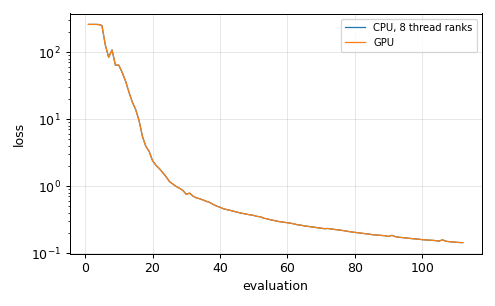
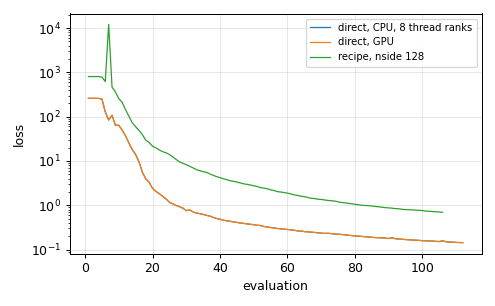
examples/01: the recipe for skewed fields on the Takahashi target
The direct synthesis of the Takahashi kappa (skewness 8.4) matches its
statistics but keeps pixel-scale noise and half the skewness. run.sh now
also runs the recipe of USAGE section 4: Gaussian anamorphosis, bilinear
interpolation to nside 128 with --keep-mean, synthesis at 128 on the GPU
(CPU thread ranks with GPU=0), back to nside 64, histogram matching. The
result is clean, with the target's histogram, and its spectrum is within
0.89-1.31 of the target's per band (plain interpolation: 0.61-1.70).
README, figures (target, direct CPU/GPU, recipe) and timings from garoupe.

diff --git a/examples/01_healpix_synthesis/README.md b/examples/01_healpix_synthesis/README.md
@@ -3,7 +3,11 @@
 Synthesis of a map whose scattering-covariance statistics match those of a target: the
 weak-lensing convergence κ of Takahashi et al. (2017), realisation r000 at source redshift zs1,
 block-averaged to nside 64 (`fixtures/takahashi/takahashi_r000_zs1_nside64_nested.npy`, NESTED,
-shipped with the repository), starting from white noise, with `stl-synth`.
+shipped with the repository), with `stl-synth`, in two ways:
+
+1. **directly**, from white noise, on the CPU and on a GPU (the two follow the same trajectory);
+2. with **the recipe for skewed fields** ([USAGE](../../docs/USAGE.md), section 4): Gaussian
+   anamorphosis of the target, synthesis at `2 nside`, back to `nside`, histogram matching.
 
 ```bash
 cargo build --release -p stl-cli --features gpu      # without a GPU: no feature, and GPU=0
@@ -15,6 +19,12 @@ The commands it runs:
 ```bash
 stl-synth --target takahashi_r000_zs1_nside64_nested.npy --L 4 --weights ergodic --niter 100 --seed 1 --ranks 8 --out out/cpu
 stl-synth --target takahashi_r000_zs1_nside64_nested.npy --L 4 --weights ergodic --niter 100 --seed 1 --gpu --out out/gpu
+# the recipe
+python tools/gaussianize.py forward takahashi_r000_zs1_nside64_nested.npy out/target_gauss.npy out/table.npz
+python tools/resample_nested.py up out/target_gauss.npy out/target_gauss_up.npy --keep-mean     # nside 128
+stl-synth --target out/target_gauss_up.npy --L 4 --weights ergodic --niter 100 --seed 1 --gpu --out out/recipe
+python tools/resample_nested.py down out/recipe_synthesis_nested.npy out/recipe_gauss.npy       # nside 64
+python tools/gaussianize.py match out/table.npz out/recipe_gauss.npy out/recipe_nested.npy
 ```
 
 - `--L 4`: four orientations (the default; two leave anisotropic textures);
@@ -23,7 +33,9 @@ stl-synth --target takahashi_r000_zs1_nside64_nested.npy --L 4 --weights ergodic
   coefficient, so the loss is a reduced χ² and every family is fitted;
 - `--ranks 8`: eight ranks as threads of one process (with the `mpi` feature, use `mpirun -n 8`
   instead: [example 05](https://github.com/jmdelouis/STL-Dev-MPI/tree/main/examples/05_mpi));
-- `--gpu`: one CUDA device.
+- `--gpu`: one CUDA device (with `GPU=0` the recipe runs on the CPU thread ranks);
+- `--keep-mean`: the interpolation to nside 128 shifts every group of 4 children so that its mean
+  is the parent's value, so the target is recovered exactly when cut back.
 
 ## Results
 
@@ -31,13 +43,25 @@ stl-synth --target takahashi_r000_zs1_nside64_nested.npy --L 4 --weights ergodic
 
 Top: Mollweide views; bottom: one base face (64 × 64 pixels). All panels share one
 histogram-equalised colour scale, set by the target (healpy's `norm='hist'`). At nside 64 (pixels of
-0.9°) the Takahashi κ map is strongly non-Gaussian (pixel skewness 8.4): filaments and halos on
-voids. The syntheses reproduce the filamentary network, and their statistics match the target's
-(reduced χ² 0.14, [example 03](https://github.com/jmdelouis/STL-Dev-MPI/tree/main/examples/03_statistics)). They also keep pixel-scale noise, because a
-direct synthesis of so skewed a field from white noise in 100 iterations does not settle the
-smallest scales. The recipe for such fields (Gaussian anamorphosis, synthesis at `2N`,
-histogram matching; [USAGE](../../docs/USAGE.md), section 4) and the ensemble method of
-[example 02](https://github.com/jmdelouis/STL-Dev-MPI/tree/main/examples/02_healpix_ensemble) give clean maps.
+0.9°) the Takahashi κ map is strongly non-Gaussian (pixel skewness 8.4): filaments and halos
+around voids.
+
+- **Direct synthesis.** It reproduces the filamentary network, and its statistics match the
+  target's (reduced χ² 0.14, [example 03](https://github.com/jmdelouis/STL-Dev-MPI/tree/main/examples/03_statistics)), but it keeps pixel-scale noise and only half
+  the skewness (4.1). A direct synthesis of so skewed a field does not settle the smallest scales.
+- **Recipe.** The map is clean, with the target's exact pixel histogram (skewness 8.38), and its
+  textures resemble the target's down to the pixel.
+
+Power spectrum of the synthesis over that of the target (healpy `anafast`, mean over each band):
+
+| Run | ℓ 2–29 | ℓ 30–99 | ℓ 100–191 | Skewness (target 8.38) |
+|---|---|---|---|---|
+| direct | 1.17 | 1.00 | 1.05 | 4.06 |
+| recipe | 1.31 | 1.12 | 0.89 | 8.38 |
+
+The direct run's spectrum includes its pixel noise. The recipe, without `--keep-mean`, gave a
+smoother map (0.61 at ℓ 100–191, 1.70 at ℓ 2–29), because the plain interpolation removes most of
+the target's finest scale.
 
 ![loss](loss.png)
 
@@ -45,24 +69,25 @@ histogram matching; [USAGE](../../docs/USAGE.md), section 4) and the ensemble me
 |---|---|---|---|---|---|---|
 | CPU, 8 thread ranks | 112 | 3.58 | 401 s | 404 s | 259.2 → 0.1429 | 0.42 GiB host |
 | GPU (Tesla T4) | 112 | 0.043 | 4.8 s | 22 s | 259.2 → 0.1429 | 0.31 GiB host, 0.51 GiB device |
+| recipe, nside 128, GPU (T4) | 106 | 0.142 | 15 s | 41 s | 803.8 → 0.691 | 0.31 GiB host, 1.32 GiB device |
 
 garoupe: 2 × Xeon Bronze 3204 (12 cores at 1.9 GHz), Tesla T4 (whose FP64 is 1/32 of its FP32).
-The two runs follow the same trajectory: the final losses agree to 2.3e-8 relative (the GPU and CPU gradients differ by about 1e-12, which
+The two direct runs follow the same trajectory: the final losses agree to 2.3e-8 relative (the GPU and CPU gradients differ by about 1e-12, which
 L-BFGS amplifies slowly; see the [GPU report](../../docs/gpu.md), section 5).
 
 ## Outputs (`out/`)
 
 | File | Content |
 |---|---|
-| `cpu.json`, `gpu.json` | run report: `loss_history`, `seconds_per_evaluation`, `timers_seconds`, `memory_peak_bytes_per_rank`, `final_residual_in_ergodic_sigma` per family, ... |
+| `cpu.json`, `gpu.json`, `recipe.json` | run report: `loss_history`, `seconds_per_evaluation`, `timers_seconds`, `memory_peak_bytes_per_rank`, `final_residual_in_ergodic_sigma` per family, ... |
 | `*_synthesis_nested.npy` | the synthesis in the target's units |
 | `*_synthesis_standardized.npy` | the same, standardised |
 | `*_synthesis.fits`, `*_target.fits` | HEALPix FITS binary tables |
+| `target_gauss*.npy`, `table.npz` | the Gaussianised target (nside 64 and 128) and its anamorphosis table |
+| `recipe_nested.npy` | the recipe's synthesis at nside 64, with the target's histogram |
 
 ## Going further
 
-- Non-Gaussian targets (weak lensing at low redshift, density): Gaussian anamorphosis, synthesis
-  at `2N`, histogram matching ([USAGE](../../docs/USAGE.md), section 4).
 - Large nside: coarse-to-fine starts (`--init` from a lower-nside synthesis), MPI ranks or several
   GPUs ([MPI guide](../../docs/user-guide/mpi.md), [GPU guide](../../docs/user-guide/gpu.md)).
 - Statistics of the result: [example 03](https://github.com/jmdelouis/STL-Dev-MPI/tree/main/examples/03_statistics).

diff --git a/examples/README.md b/examples/README.md
@@ -6,7 +6,7 @@ time).
 
 | | Example | Tool | Run time (garoupe) |
 |---|---|---|---|
-| 01 | [HEALPix synthesis of one map, CPU and GPU](01_healpix_synthesis) | `stl-synth` | 7 min CPU, 24 s GPU |
+| 01 | [HEALPix synthesis of one map, CPU and GPU, and the recipe for skewed fields](01_healpix_synthesis) | `stl-synth` | 7 min CPU, 22 s + 41 s GPU |
 | 02 | [Ensemble synthesis, 10 members, P. Campeti's method](02_healpix_ensemble) | `stl-ensemble` | 12 min GPU |
 | 03 | [Statistics of maps](03_statistics) | `stl-stats` | 25 s |
 | 04 | [2D synthesis, STL-Dev's example (10 × 256²), CPU and GPU](04_planar_synthesis) | `stl-synth2d` | 2 min CPU, 1.5 + 7 min GPU |

diff --git a/README.md b/README.md
@@ -83,7 +83,7 @@ Each run writes a JSON report (`loss_history`, `seconds_per_evaluation`, `timers
 
 | | Example | Tool |
 |---|---|---|
-| 01 | [HEALPix synthesis of one map, CPU and GPU](examples/01_healpix_synthesis) | `stl-synth` |
+| 01 | [HEALPix synthesis of one map, CPU and GPU, and the recipe for skewed fields](examples/01_healpix_synthesis) | `stl-synth` |
 | 02 | [Ensemble synthesis, 10 members, P. Campeti's method](examples/02_healpix_ensemble) | `stl-ensemble` |
 | 03 | [Statistics of maps](examples/03_statistics) | `stl-stats` |
 | 04 | [2D synthesis, 10 images of 256², CPU and GPU](examples/04_planar_synthesis) | `stl-synth2d` |
